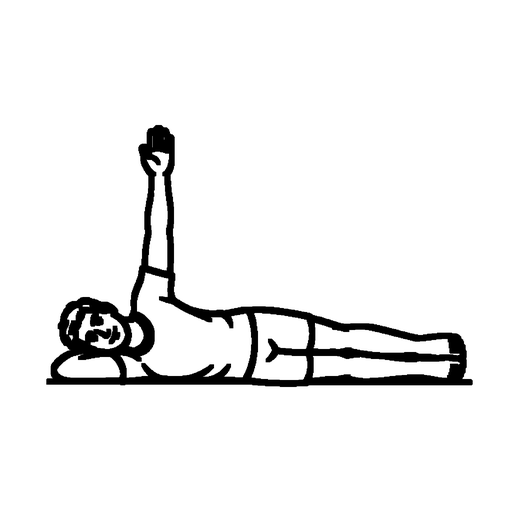
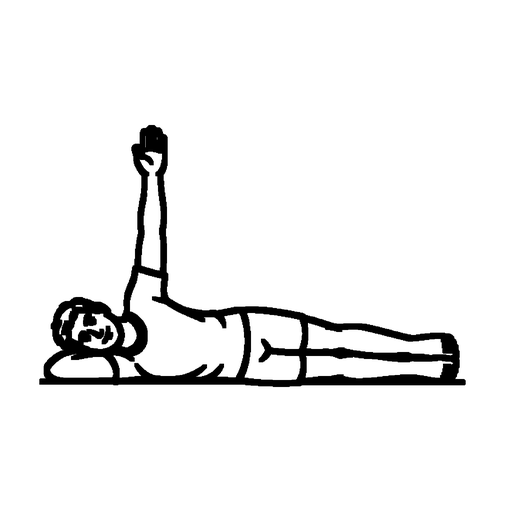
Coach : dessin Latérale sans charge et animations recalées (cache coach-v6, 03/11/2026)

Changed region(s): [[0.0625, 0.2188, 0.9375, 0.75]]

diff --git a/sw.js b/sw.js
@@ -1,4 +1,4 @@
-var C='coach-v5';var F=['./','./index.html','./manifest.json','./icon-192.png','./icon-512.png','./dessins/body_saw_debut.png','./dessins/body_saw_fin.png','./dessins/bulgare_debut.png','./dessins/bulgare_fin.png','./dessins/chaise_murale.png','./dessins/copenhagen.png','./dessins/dessins.js','./dessins/developpe_couche_debut.png','./dessins/developpe_couche_fin.png','./dessins/developpe_incline_debut.png','./dessins/developpe_incline_fin.png','./dessins/developpe_militaire_debut.png','./dessins/developpe_militaire_fin.png','./dessins/dips_debut.png','./dessins/dips_fin.png','./dessins/hanches_9090.png','./dessins/laterale_assis_debut.png','./dessins/laterale_assis_fin.png','./dessins/laterale_couche_debut.png','./dessins/laterale_couche_fin.png','./dessins/laterale_penche_debut.png','./dessins/laterale_penche_fin.png','./dessins/laterale_poulie_deux_bras_debut.png','./dessins/laterale_poulie_deux_bras_fin.png','./dessins/laterale_poulie_un_bras_debut.png','./dessins/laterale_poulie_un_bras_fin.png','./dessins/mollet_un_pied_debut.png','./dessins/mollet_un_pied_fin.png','./dessins/mollets_deux_jambes_debut.png','./dessins/mollets_deux_jambes_fin.png','./dessins/nordic_debut.png','./dessins/nordic_fin.png','./dessins/oiseau_poulie_debut.png','./dessins/oiseau_poulie_fin.png','./dessins/pallof_debut.png','./dessins/pallof_fin.png','./dessins/pigeon.png','./dessins/planche_laterale_debut.png','./dessins/planche_laterale_fin.png','./dessins/pompes_pieds_sureleves_debut.png','./dessins/pompes_pieds_sureleves_fin.png','./dessins/pompes_plus_debut.png','./dessins/pompes_plus_fin.png','./dessins/pont_unilateral_debut.png','./dessins/pont_unilateral_fin.png','./dessins/pseudo_planche_debut.png','./dessins/pseudo_planche_fin.png','./dessins/releve_jambes_suspendu.png','./dessins/rollout_debut.png','./dessins/rollout_fin.png','./dessins/rotation_thoracique_debut.png','./dessins/rotation_thoracique_fin.png','./dessins/rowing_buste_soutenu_debut.png','./dessins/rowing_buste_soutenu_fin.png','./dessins/rowing_inverse_debut.png','./dessins/rowing_inverse_fin.png','./dessins/squat_profond.png','./dessins/tirage_un_bras_debut.png','./dessins/tirage_un_bras_fin.png','./dessins/tirage_vertical_debut.png','./dessins/tirage_vertical_fin.png','./dessins/toucher_epaule_debut.png','./dessins/toucher_epaule_fin.png','./dessins/tractions_debut.png','./dessins/tractions_fin.png','./dessins/tractions_prise_neutre_debut.png','./dessins/tractions_prise_neutre_fin.png','./dessins/verticale_mur.png','./dessins/ytw_debut.png','./dessins/ytw_fin.png'];
+var C='coach-v6';var F=['./','./index.html','./manifest.json','./icon-192.png','./icon-512.png','./dessins/body_saw_debut.png','./dessins/body_saw_fin.png','./dessins/bulgare_debut.png','./dessins/bulgare_fin.png','./dessins/chaise_murale.png','./dessins/copenhagen.png','./dessins/dessins.js','./dessins/developpe_couche_debut.png','./dessins/developpe_couche_fin.png','./dessins/developpe_incline_debut.png','./dessins/developpe_incline_fin.png','./dessins/developpe_militaire_debut.png','./dessins/developpe_militaire_fin.png','./dessins/dips_debut.png','./dessins/dips_fin.png','./dessins/hanches_9090.png','./dessins/laterale_assis_debut.png','./dessins/laterale_assis_fin.png','./dessins/laterale_couche_debut.png','./dessins/laterale_couche_fin.png','./dessins/laterale_sans_charge_debut.png','./dessins/laterale_sans_charge_fin.png','./dessins/laterale_penche_debut.png','./dessins/laterale_penche_fin.png','./dessins/laterale_poulie_deux_bras_debut.png','./dessins/laterale_poulie_deux_bras_fin.png','./dessins/laterale_poulie_un_bras_debut.png','./dessins/laterale_poulie_un_bras_fin.png','./dessins/mollet_un_pied_debut.png','./dessins/mollet_un_pied_fin.png','./dessins/mollets_deux_jambes_debut.png','./dessins/mollets_deux_jambes_fin.png','./dessins/nordic_debut.png','./dessins/nordic_fin.png','./dessins/oiseau_poulie_debut.png','./dessins/oiseau_poulie_fin.png','./dessins/pallof_debut.png','./dessins/pallof_fin.png','./dessins/pigeon.png','./dessins/planche_laterale_debut.png','./dessins/planche_laterale_fin.png','./dessins/pompes_pieds_sureleves_debut.png','./dessins/pompes_pieds_sureleves_fin.png','./dessins/pompes_plus_debut.png','./dessins/pompes_plus_fin.png','./dessins/pont_unilateral_debut.png','./dessins/pont_unilateral_fin.png','./dessins/pseudo_planche_debut.png','./dessins/pseudo_planche_fin.png','./dessins/releve_jambes_suspendu.png','./dessins/rollout_debut.png','./dessins/rollout_fin.png','./dessins/rotation_thoracique_debut.png','./dessins/rotation_thoracique_fin.png','./dessins/rowing_buste_soutenu_debut.png','./dessins/rowing_buste_soutenu_fin.png','./dessins/rowing_inverse_debut.png','./dessins/rowing_inverse_fin.png','./dessins/squat_profond.png','./dessins/tirage_un_bras_debut.png','./dessins/tirage_un_bras_fin.png','./dessins/tirage_vertical_debut.png','./dessins/tirage_vertical_fin.png','./dessins/toucher_epaule_debut.png','./dessins/toucher_epaule_fin.png','./dessins/tractions_debut.png','./dessins/tractions_fin.png','./dessins/tractions_prise_neutre_debut.png','./dessins/tractions_prise_neutre_fin.png','./dessins/verticale_mur.png','./dessins/ytw_debut.png','./dessins/ytw_fin.png'];
 self.addEventListener('install',function(e){self.skipWaiting();e.waitUntil(caches.open(C).then(function(c){return c.addAll(F)}).catch(function(){}))});
 self.addEventListener('activate',function(e){e.waitUntil(caches.keys().then(function(k){return Promise.all(k.filter(function(x){return x!==C}).map(function(x){return caches.delete(x)}))}).then(function(){return self.clients.claim()}))});
 self.addEventListener('fetch',function(e){if(e.request.method!=='GET')return;

diff --git a/dessins/dessins.js b/dessins/dessins.js
@@ -9,7 +9,7 @@ var DESSINS={
 "Développé incliné haltères ou machine":{img:"developpe_incline_debut.png",fin:"developpe_incline_fin.png",mw:"dumbbell-incline-bench-press",credit:{t:"Dessin : Everkinetic, CC BY-SA 3.0, modifié (recadrage, trait)",src:"https://commons.wikimedia.org/wiki/File:Dumbbell_incline_bench_press_1.svg",lic:"https://creativecommons.org/licenses/by-sa/3.0/"}},
 "Pompes pieds surélevés [P1]":{img:"pompes_pieds_sureleves_debut.png",fin:"pompes_pieds_sureleves_fin.png",mw:"decline-push-up",credit:{t:"Dessin : Everkinetic, CC BY-SA 3.0, modifié (recadrage, trait)",src:"https://commons.wikimedia.org/wiki/File:Push_up_feet_elevated_2_1.svg",lic:"https://creativecommons.org/licenses/by-sa/3.0/"}},
 "Élévation latérale poulie basse, bras devant le corps":{img:"laterale_poulie_deux_bras_debut.png",fin:"laterale_poulie_deux_bras_fin.png",mw:"cable-low-bilateral-lateral-raise",credit:{t:"Dessin généré par IA (OpenAI), sans photo modèle"}},
-"Latérale sans charge [S1]":{faux:true},
+"Latérale sans charge [S1]":{img:"laterale_sans_charge_debut.png",fin:"laterale_sans_charge_fin.png",faux:true,credit:{t:"Dessin généré par IA (OpenAI), sans photo modèle"}},
 "Rowing buste soutenu, coudes à 45°":{img:"rowing_buste_soutenu_debut.png",fin:"rowing_buste_soutenu_fin.png",mw:"dumbbell-laying-incline-row",credit:{t:"Dessin généré par IA (OpenAI), sans photo modèle"}},
 "Rowing inversé [R1]":{img:"rowing_inverse_debut.png",fin:"rowing_inverse_fin.png",mw:"inverted-row",credit:{t:"Dessin : Everkinetic, CC BY-SA 3.0, modifié (recadrage, trait)",src:"https://commons.wikimedia.org/wiki/File:Body_row_2.svg",lic:"https://creativecommons.org/licenses/by-sa/3.0/"}},
 "Tirage horizontal à un bras":{img:"tirage_un_bras_debut.png",fin:"tirage_un_bras_fin.png",mw:"cable-single-arm-neutral-grip-row",credit:{t:"Dessin généré par IA (OpenAI), sans photo modèle"}},

diff --git a/dessins/CREDITS.md b/dessins/CREDITS.md
@@ -36,7 +36,7 @@ Trois dessins générés par IA (ChatGPT) d'après des photos Pexels. Licence Pe
 
 ## Dessins générés par IA (OpenAI), sans photo modèle
 
-22 dessins générés par IA (OpenAI), sans photo modèle : pas d'auteur ni de licence externe.
+23 dessins générés par IA (OpenAI), sans photo modèle : pas d'auteur ni de licence externe.
 
-- Paires animées (17) : nordic, body_saw, pallof, toucher_epaule, pont_unilateral, ytw, laterale_poulie_deux_bras, laterale_poulie_un_bras, laterale_assis, laterale_penche, laterale_couche, rowing_buste_soutenu, tirage_un_bras, mollet_un_pied, mollets_deux_jambes, rotation_thoracique, pompes_plus.
+- Paires animées (18) : nordic, body_saw, pallof, toucher_epaule, pont_unilateral, ytw, laterale_poulie_deux_bras, laterale_poulie_un_bras, laterale_assis, laterale_penche, laterale_couche, rowing_buste_soutenu, tirage_un_bras, mollet_un_pied, mollets_deux_jambes, rotation_thoracique, pompes_plus, laterale_sans_charge.
 - Dessins fixes (5) : copenhagen, chaise_murale, hanches_9090, pigeon, squat_profond.
